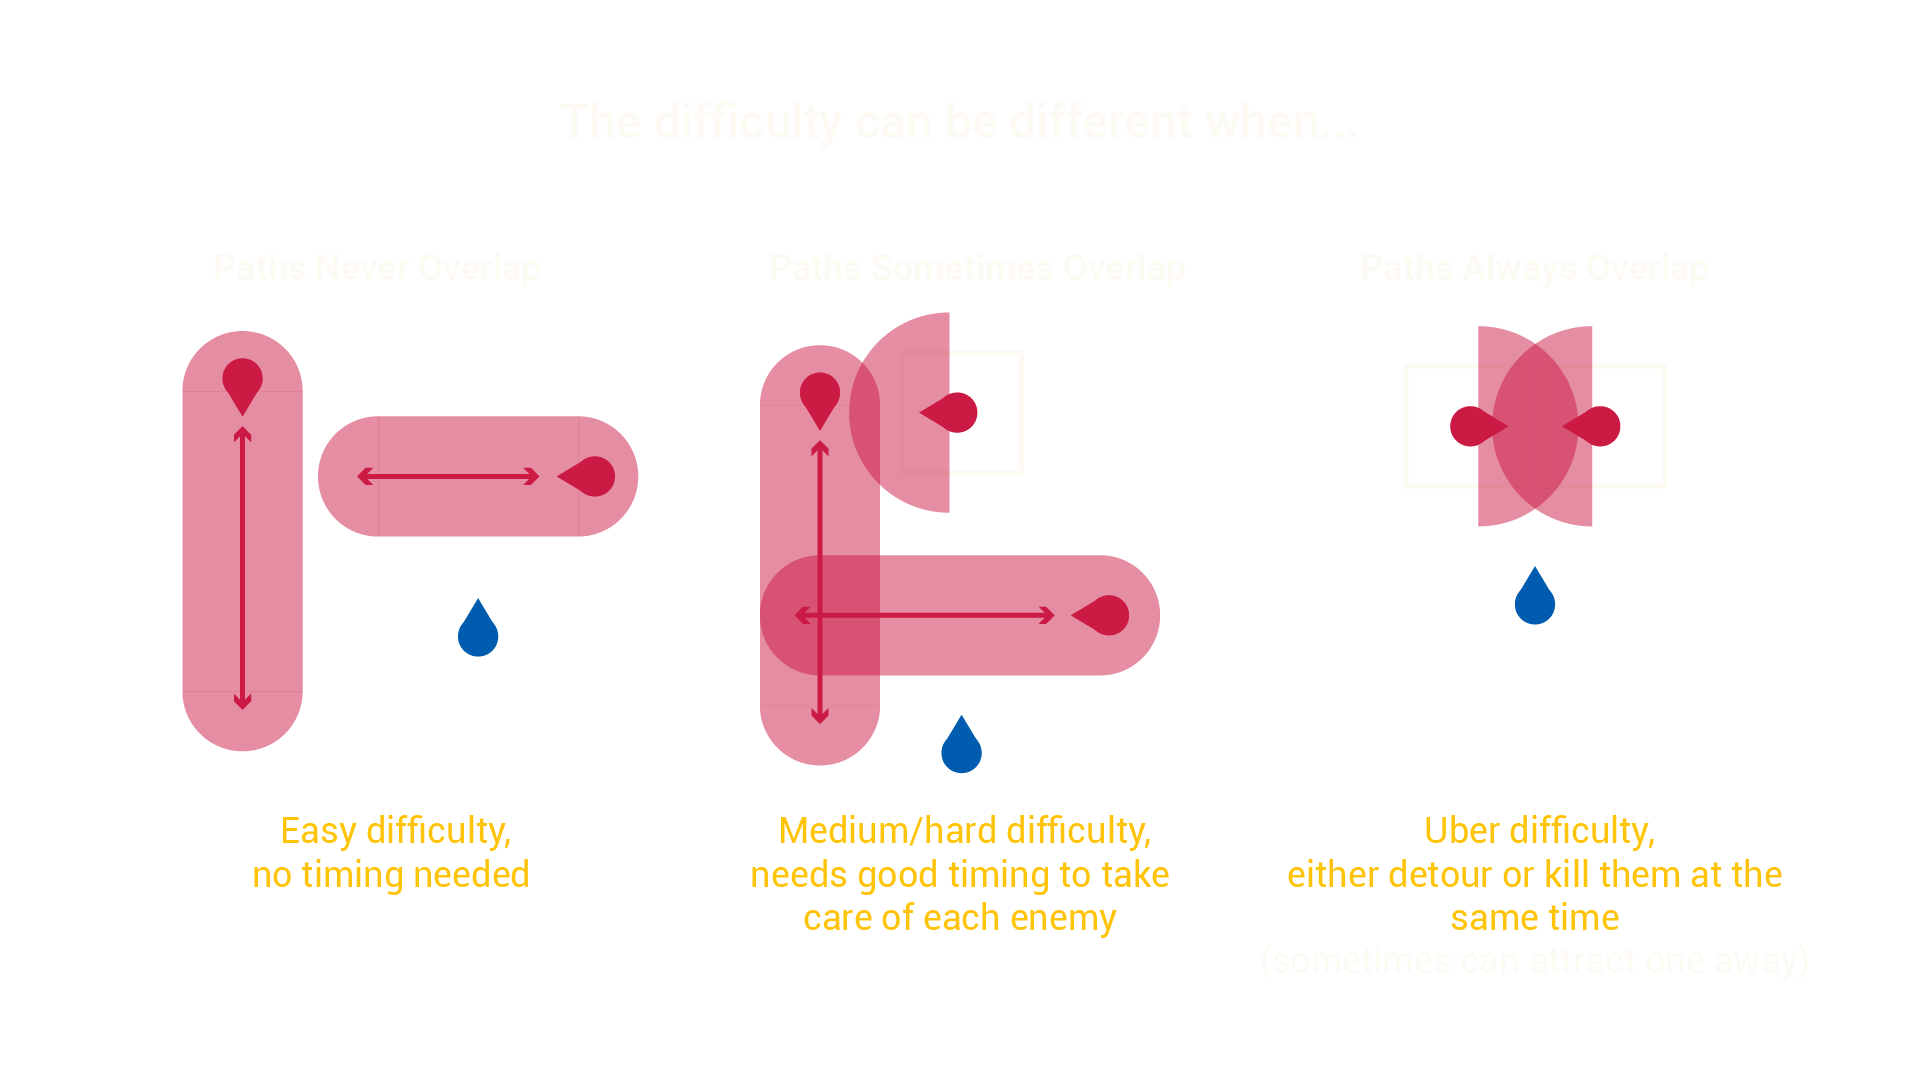
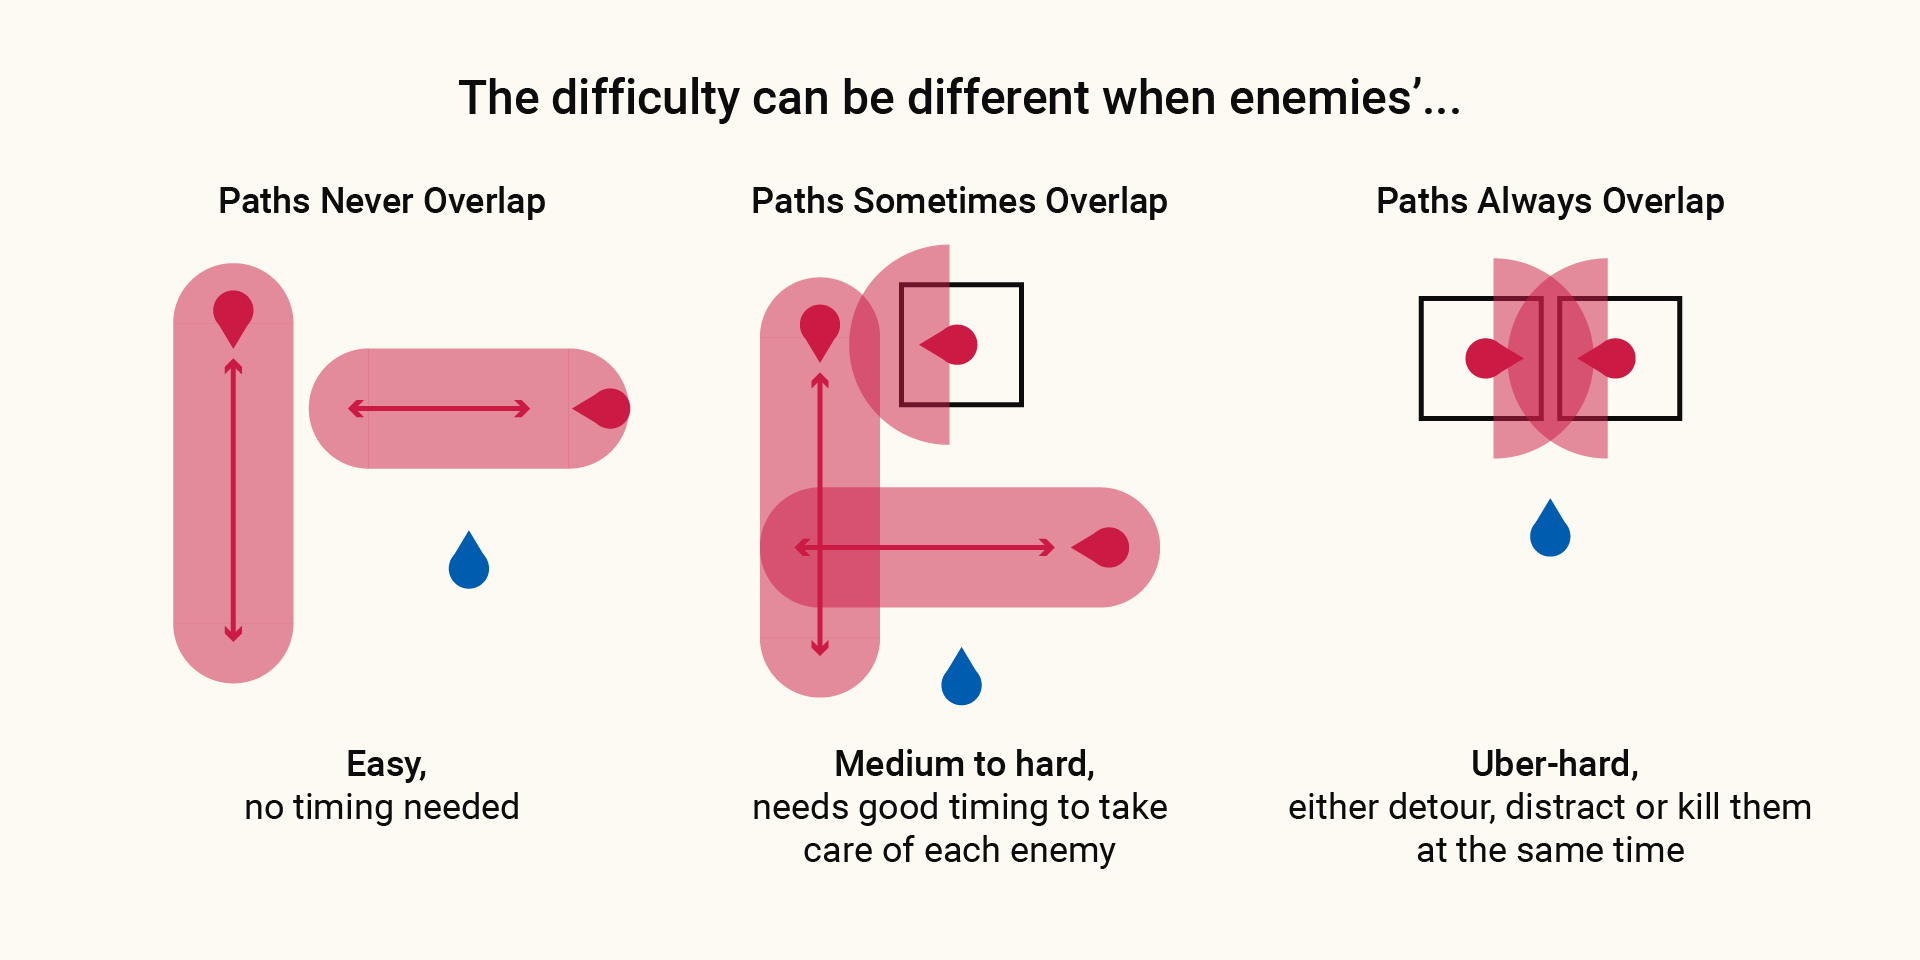
1.7 Minor Update
Fixed some content on Stealth Level page.

diff --git a/games/cosmos.html b/games/cosmos.html
@@ -32,14 +32,16 @@
     >
       <div class="top-title">Cosmos</div>
       <div class="top-introduction">
-        Cosmos is a board game I am working on as the course project for Stone
-        Librande's Game Design Fundamentals. In general, it is a 1v1v1 resource
-        gathering game where players compete to be the first person to reach the
-        high score.
+        Cosmos is a board game I worked on for the course project for Stone
+        Librande's Game Design Fundamentals. It is an 1v1v1 resource management
+        game where players compete to be the first person to obtain the winning
+        score.
       </div>
       <div class="top-information">
         <span style="color: var(--ro)">time</span> spring 2020 <br />
-        <span style="color: var(--ro)">genre</span> board game<br />
+        <span style="color: var(--ro)">genre</span> resource management board
+        game<br />
+        <span style="color: var(--ro)">length</span> 10-15 minutes<br />
         <span style="color: var(--ro)">work</span> game design, art
       </div>
     </div>
@@ -124,7 +126,7 @@
         Motherships.
       </div>
 
-      <div class="main-title">Prototype Version Alpha</div>
+      <div class="main-title">Prototyping</div>
       <div class="main-description">
         Iteration is absolutely a key faction in game design, and even more
         crucial for board games as it's not hard to make prototypes but I do
@@ -133,8 +135,8 @@
         playtesting and I also hold off-class playtests with individuals. I keep
         a record of what I did well and what should improve from each
         playtester's opinion.<br />
-        For version alpha I mainly want to test the core gameplay and the fun
-        factor in multiplayer competition. I started off by only having two
+        For this beta version I mainly wanted to test the core gameplay and the
+        fun factor in multiplayer competition. I started off by only having two
         camps for this version since balancing three camps could cost lots of
         extra work. Each card also had a minimal illustration.
       </div>
@@ -143,7 +145,7 @@
         gameplay
       </div>
       <div class="main-design-description">
-        <span class="element-title">cards</span>
+        <span class="element-title">cards</span><br />
         There are two kinds of units: Ships are ones that can move by itself
         (usually determined by a 6-sided die), and Boosters are ones attached to
         the Mothership but can make the Mothership move.<br />
@@ -253,30 +255,75 @@
         cards are mostly expensive, but with very unique abilities such as
         telekinesis that can teleport Mothership, Yellow camp has the highest
         flexibility in late game and could dominate the game once its galactic
-        fleet are running on the map.<br />
+        fleet arrives.<br />
         Telekinesis: Move target ship or Mothership instantly to a target
         location.
         <br /><span class="element-title">card balance</span><br />
         Balancing has been a major problem for many card games and especially
-        deck-building games. Since the alpha version is pretty rough with almost
+        deck-building games. Since the beta version is pretty rough with almost
         no testing, I want to try establishing a mathematical model for cards'
         costs, values and special abilities so I can stick to the pattern and
         avoid making big mistakes.
       </div>
 
-      <div class="main-title">Prototype Version Beta</div>
+      <div class="main-title">Product</div>
       <div class="main-description">
-        With the takeaways gained from the alpha version, I decided to design a
-        beta version with different core mechanism.
+        With the takeaways gained from the beta version, I decided to design a
+        beta version with a different core mechanism.
       </div>
       <div class="main-design-title">
         <hr />
-        going virtual
+        tough switch
+      </div>
+      <div class="main-design-description">
+        The main reason for the pivoting was the balancing issue and the
+        workload of a deck-building game that went beyond my estimation. Despite
+        many cool ideas that came up to my mind, I realize that the game I was
+        building was still far from well-rounded and I had to spent a lot of
+        time to tweak the value.<br /><br />
+        So I decided to make a simplified game with the space theme kept. I was
+        thinking of a resource management game then because I as well had rich
+        experiences playing some typical resource management game such as Catan
+        and Splendor.
       </div>
       <div class="main-design-title">
         <hr />
         top-down design
       </div>
+      <div class="main-design-description">
+        I still wanted to keep the competitive gameplay and wanted to use an
+        1v1v1 mechanism to trigger some interesting interactions between
+        players, because 1v1v1 is usually not an "equal" situation as two weaker
+        players could ally up against the strongest player. After a month's
+        playtesting and iterating, I finally settled down upon the final
+        playable version. Here's the
+        <a
+          href="https://docs.google.com/document/d/1soHsIO3F7qxaEn3eHCOsrD_uH8jMBaKjiwzKgEgZPWw/edit?usp=sharing"
+          class="link"
+          target="_blank"
+        >
+          link to the rulebook.</a
+        >
+      </div>
+      <div class="main-design-title">
+        <hr />
+        going virtual
+      </div>
+      <div class="main-design-description">
+        The project switched to virtual format as the class moved online in mid
+        March. I transplanted the game onto Tabletop Simulator as the new
+        development environment.<br /><br />
+        The game is available at Tabletop Simulator via Steam Workshop, here's
+        the
+        <a
+          href="https://steamcommunity.com/sharedfiles/filedetails/?id=2081410248"
+          class="link"
+          target="_blank"
+        >
+          link to the game.</a
+        >
+      </div>
+
       <div style="clear: both"></div>
     </div>
   </body>

diff --git a/levels/stealth-level.html b/levels/stealth-level.html
@@ -25,11 +25,11 @@
 
     <div
       class="top"
-      style="background-image: url(/media/levels/stealth-level/title.png)"
+      style="background-image: url(/media/levels/stealth-level/title.jpg)"
     >
-      <div class="top-title">Stealth Level Design</div>
+      <div class="top-title">Stealth Level</div>
       <div class="top-introduction">
-        This stealth level marks my first work in Unreal Engine 4. In this
+        This stealth level study marks my first work in Unreal Engine 4. In this
         project I tried to answer three core questions: What a stealth level
         flow should be like? How to use visual elements to guide the player? How
         to design a level with limited interior space?<br /><br />
@@ -38,7 +38,7 @@
           href="https://drive.google.com/drive/folders/1Pu4ibbW7Ms6zl_WeGc8CxX7aI3FLEJAP?usp=sharing"
           target="_blank"
           class="link"
-          >Runnable Build</a
+          >Download Runnable Build</a
         >
       </div>
       <div class="top-information">
@@ -212,13 +212,22 @@
           class="link"
           target="_blank"
           >A Look Back: Splinter Cell Blacklist's Benghazi Level</a
-        ><br />
+        >
+        by Jobye Karmaker<br />
+        <a
+          href="https://www.gamasutra.com/blogs/TommyThompson/20200603/364123/Bringing_Balance_to_Stealth_AI_in_Splinter_Cell_Blacklist.php"
+          class="link"
+          target="_blank"
+          >Bringing Balance to Stealth AI in Splinter Cell: Blacklist</a
+        >
+        by Tommy Thompson<br />
         <a
           href="http://www.mikebarclay.co.uk/my-level-design-guidelines/"
           class="link"
           target="_blank"
           >Michael Barclay's Level Design Guidelines</a
         >
+        by Michael Barclay
       </div>
 
       <div class="main-title" id="planning">Planning</div>
@@ -319,8 +328,8 @@
         <div class="element-image">
           <img src="/media/levels/stealth-level/patrol-patterns.png" />
         </div>
-        For most situations, I used the setup in the middle to balance the
-        playability and challenge.
+        For most situations, I used the paths-sometimes-overlap setup to achieve
+        a balance between challenge and playability.
         <br /><span class="element-title">mesh & color</span><br />
         Although the purpose of this level was not to make an environmental art
         portfolio, I built the level in medium detail, focusing on items that
@@ -415,10 +424,11 @@
           <img src="/media/levels/stealth-level/dead-end.png" />
         </div>
         <span class="element-title">multiple paths</span><br />
-        I realized as a designer I should allow interesting choices, because
-        providing players with more than one route to the goal can make the game
-        more interesting and cater to different skill levels. The work in this
-        part can be found in the dashed lines in the
+        I realized as a designer I should allow more interesting choices,
+        because providing players with more than one route to the goal can make
+        the game more interesting and cater to different skill levels. The
+        self-explanatory efforts I made can be found in those dashed lines in
+        the
         <a href="#2d" class="link">final 2d map.</a>
       </div>
 
@@ -438,7 +448,11 @@
         Depending on the openness of the level (linear, semi-open, open-ended),
         a stealth level may set different challenge points in different
         locations, thus switching the state of flow of
-        exploring/planning/fighting as needed. <br /><br />
+        exploring/planning/fighting as needed. Another big factor are covers
+        that players can use in the map. A typical cover-to-cover experience may
+        meet most people's skill level, and the difficulty can be totally
+        different if designer removes one or two covers, making the action of
+        moving towards the next cover more risking and therefore stimulating.<br /><br />
         <span style="font-style: italic"
           >How to use visual elements to guide the player?</span
         ><br />

diff --git a/index.html b/index.html
@@ -123,7 +123,7 @@
         <div
           class="section-entry"
           style="
-            background-image: url(/media/levels/stealth-level/index-title.png);
+            background-image: url(/media/levels/stealth-level/index-title.jpg);
           "
         >
           <div>
